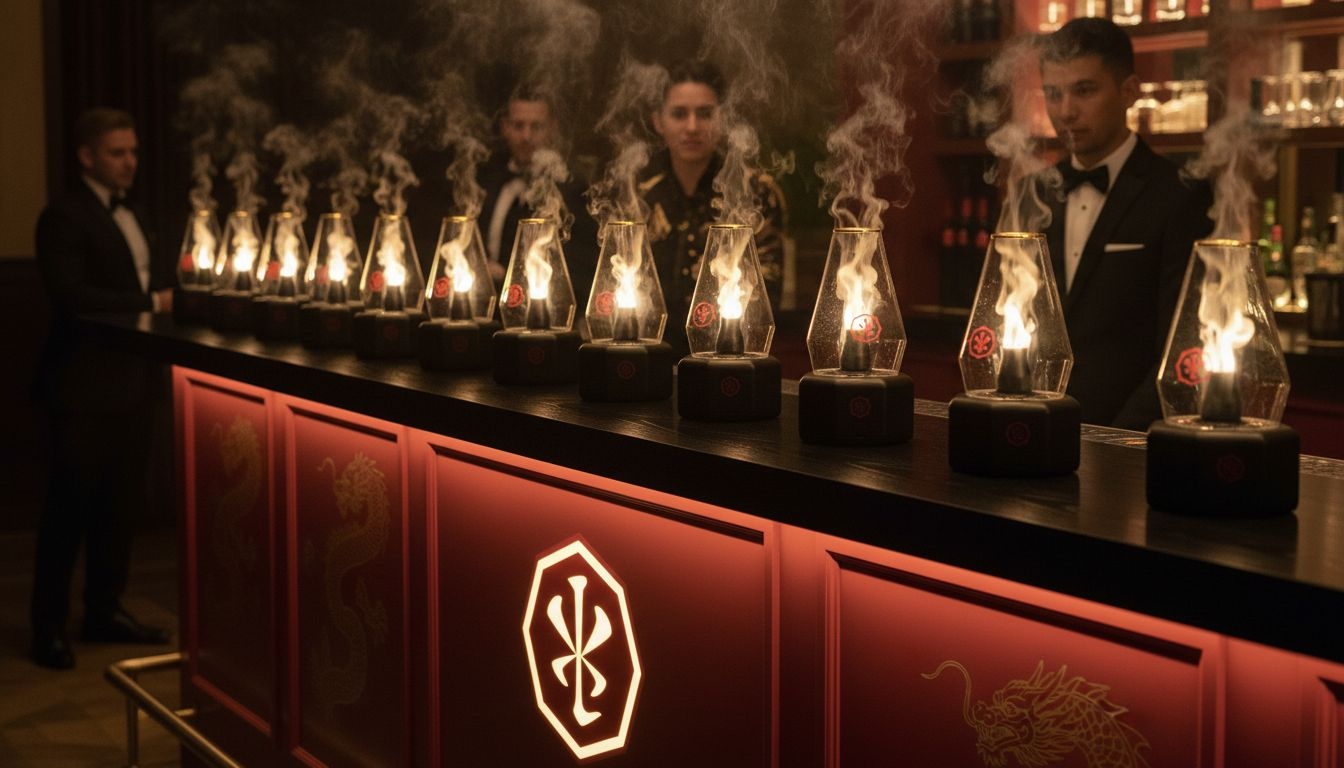
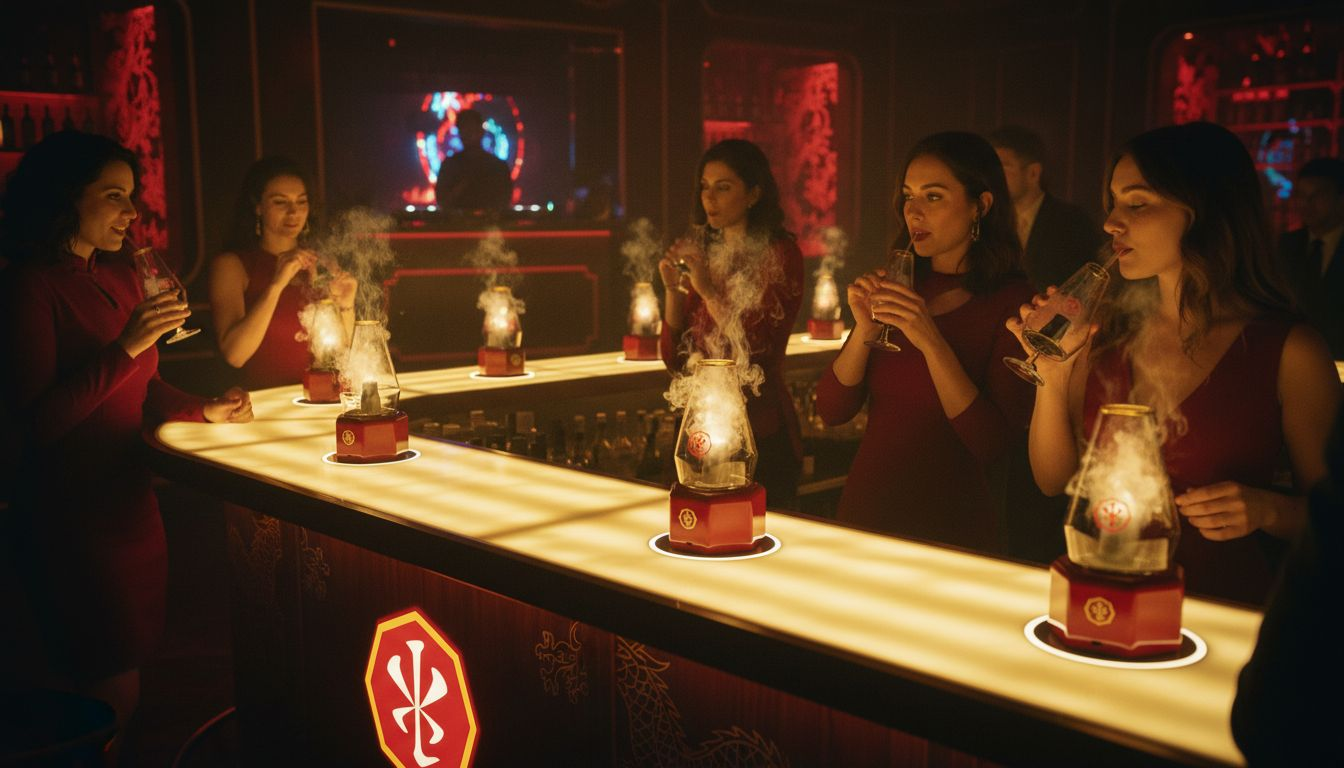
Nightlife: NYC club installation — Chalices inset in glowing LED bar, guests sipping, DJ/club vibe (cache-bust v=8)

diff --git a/index.html b/index.html
@@ -288,7 +288,7 @@
     <div class="grid g3" style="gap:1.3rem">
       <div class="vitrine gframe" style="aspect-ratio:4/3"><img src="img/gen/popup-dispensary.jpg?v=6" alt="Branded Cloud Bar pop-up in a dispensary" onerror="this.closest('.vitrine').style.display='none'"/><span class="cap"><b>Dispensary Pop-Up</b>Portable podium, red &amp; gold, Xiaolin seal — drops into any retail floor.</span></div>
       <div class="vitrine gframe" style="aspect-ratio:4/3"><img src="img/gen/installation-trays.jpg?v=6" alt="Modular LED Cloud Bar trays" onerror="this.closest('.vitrine').style.display='none'"/><span class="cap"><b>Modular LED Trays</b>Chalices on walnut bases, gold underglow — countertop to bar.</span></div>
-      <div class="vitrine gframe" style="aspect-ratio:4/3"><img src="img/gen/nightlife.jpg?v=6" alt="Nightlife lounge Cloud Bar" onerror="this.closest('.vitrine').style.display='none'"/><span class="cap"><b>Nightlife Activation</b>Low light, lacquer red, a social centerpiece.</span></div>
+      <div class="vitrine gframe" style="aspect-ratio:4/3"><img src="img/gen/nightlife.jpg?v=8" alt="Nightlife lounge Cloud Bar" onerror="this.closest('.vitrine').style.display='none'"/><span class="cap"><b>Nightlife Activation</b>Low light, lacquer red, a social centerpiece.</span></div>
     </div>
     <p class="small" style="margin-top:1.3rem;color:var(--gold-deep)">The Cloud Bar supports the Chalice — restrained, architectural, never competing for the eye.</p>
   </div>
@@ -573,7 +573,7 @@
       <div class="vitrine gframe" style="aspect-ratio:4/3"><img src="img/gen/popup-dispensary.jpg?v=6" alt="" onerror="this.closest('.vitrine').style.display='none'"/><span class="cap"><b>Dispensary Pop-Up</b>Branded portable bar.</span></div>
       <div class="vitrine gframe" style="aspect-ratio:4/3"><img src="img/gen/tasting-dispensary.jpg?v=6" alt="" onerror="this.closest('.vitrine').style.display='none'"/><span class="cap"><b>Guided Tasting</b>Ritual at the counter.</span></div>
       <div class="vitrine gframe" style="aspect-ratio:4/3"><img src="img/gen/installation-trays.jpg?v=6" alt="" onerror="this.closest('.vitrine').style.display='none'"/><span class="cap"><b>Modular Trays</b>Countertop to bar.</span></div>
-      <div class="vitrine gframe" style="aspect-ratio:4/3"><img src="img/gen/nightlife.jpg?v=6" alt="" onerror="this.closest('.vitrine').style.display='none'"/><span class="cap"><b>Nightlife Lounge</b>Atmospheric centerpiece.</span></div>
+      <div class="vitrine gframe" style="aspect-ratio:4/3"><img src="img/gen/nightlife.jpg?v=8" alt="" onerror="this.closest('.vitrine').style.display='none'"/><span class="cap"><b>Nightlife Lounge</b>Atmospheric centerpiece.</span></div>
       <div class="vitrine gframe" style="aspect-ratio:4/3"><img src="img/gen/event.jpg?v=6" alt="" onerror="this.closest('.vitrine').style.display='none'"/><span class="cap"><b>Event Activation</b>Gold cloud canopy.</span></div>
     </div>
   </div>

diff --git a/tools/gen.py b/tools/gen.py
@@ -65,13 +65,17 @@ TARGETS = [
      "surface, the small gold octagonal Xiaolin seal etched on the tray. Dramatic premium "
      "product lighting, red and gold. " + BRAND, "4:3"),
 
-    ("nightlife.jpg", CHREF,
-     "A luxury nightlife lounge Cloud Ritual bar finished in lacquer-red and gold with "
-     "warm gold LED underlighting. " + CHALICE + "A row of these identical Chalice "
-     "vaporizers glows along the bar top, vapor rising. Atmospheric low light, elegantly "
-     "dressed guests softly blurred in the background. The red-and-gold octagonal Xiaolin "
-     "temple seal glows on the front of the bar. Cinematic editorial hospitality "
-     "photograph. " + BRAND, "16:9"),
+    ("nightlife.jpg",
+     ["installation-img-1024x1015.jpg", "chalice/c7.jpg", "chalice/c1.jpg", "Xiaolin_Logo_3_f952c9dd-0f8e-4fb8-bbce-12ca0981d697.png"],
+     "A high-energy upscale New York City nightclub. A long bar runs through the room with a "
+     "glowing warm-gold LED top. " + CHALICE + "A row of these Chalice vaporizers is seated "
+     "INSET into the glowing LED bar top, each in a circular gold-lit cradle, vapor rising. "
+     "Around the bar and on the floor, stylish well-dressed guests are HOLDING the glass "
+     "Chalice cups in their hands and sipping the cloud through clear straws, mingling and "
+     "enjoying — a lively NYC club crowd. The red-and-gold octagonal Xiaolin temple seal "
+     "glows on the front of the bar. Deep lacquer-red and gold with moody club lighting, "
+     "colored light accents, bokeh, a DJ glow in the background. Cinematic nightlife "
+     "photography, atmospheric and energetic. " + BRAND, "16:9"),
 
     ("xiaolin-blend-cart.jpg",
      ["Xiaolin_Logo_3_f952c9dd-0f8e-4fb8-bbce-12ca0981d697.png", "Photoroom_20241218_174339.jpg"],
